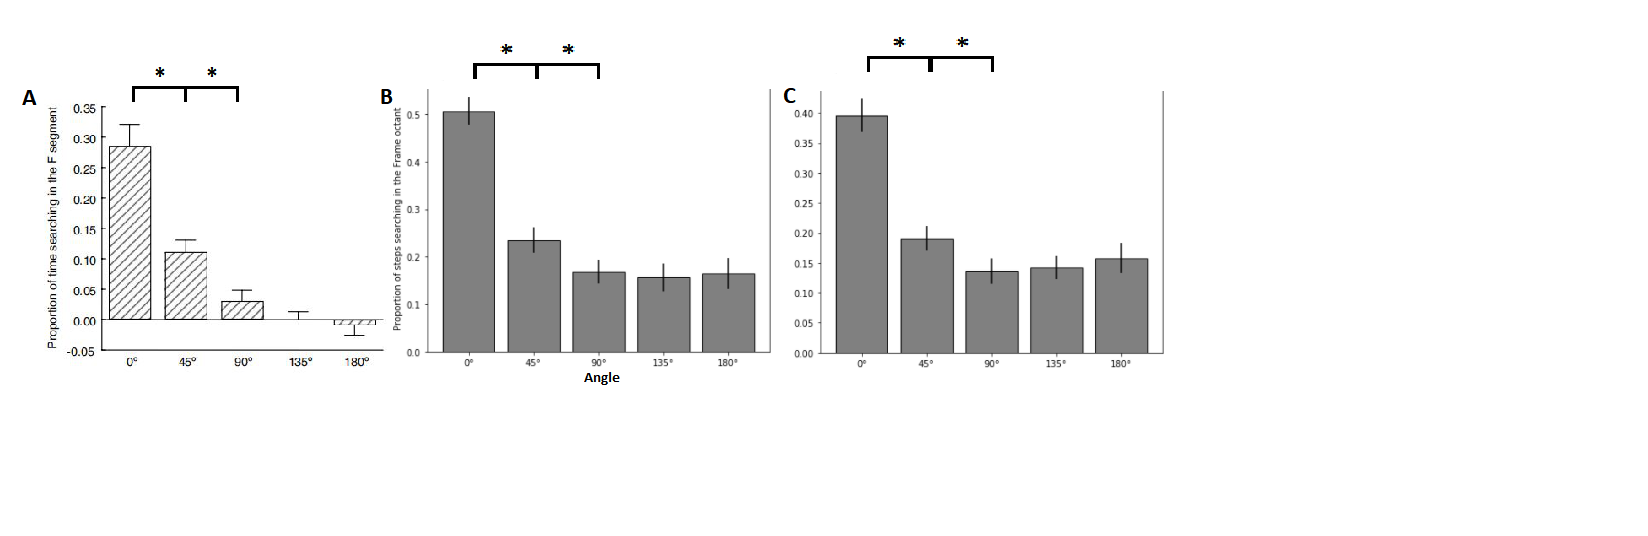
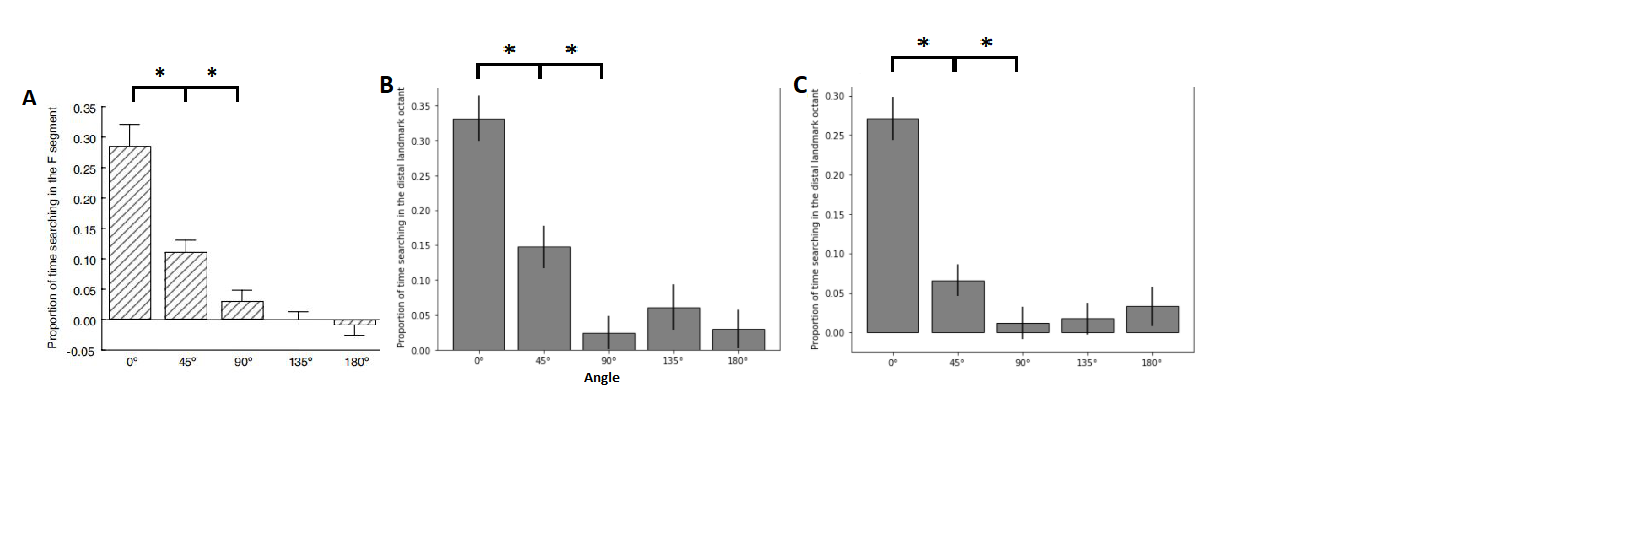
test

diff --git a/sources/rodrigo_protocol.py b/sources/rodrigo_protocol.py
@@ -583,10 +583,10 @@ def plot_rodrigo_extinction(results_folder, n_agents, show_plots, save_plots):
     axs[0].plot(aspect="auto")
 
 
-    axs[1].bar(["0°", "45°", "90°", "135°", "180°"], [dist0, dist45, dist90, dist135, dist180], yerr=[ydist0, ydist45, ydist90, ydist135, ydist180], color='gray', edgecolor="black")
+    axs[1].bar(["1", "2", "3", "4", "5"], [dist0, dist45, dist90, dist135, dist180], yerr=[ydist0, ydist45, ydist90, ydist135, ydist180], color='gray', edgecolor="black")
     axs[1].set_title("Our results")
     axs[1].set_ylabel("Proportion of time searching in the distal landmark octant")
-    axs[1].set_xlabel("Tests")
+    axs[1].set_xlabel("Extinction trial")
 
 
     if show_plots:

diff --git a/sources/agents/landmark_learning_agent.py b/sources/agents/landmark_learning_agent.py
@@ -43,6 +43,11 @@ class LandmarkLearningAgent(Agent, AssociativeAgent, FirstOrderAgent):
         self.weights = np.zeros((self.features.n_cells*2, self.env.nr_actions)) # weights associating each sensory neurons to action neurons
         self.last_observation = np.zeros(self.features.n_cells*2) # last visual perception
 
+        print("lr: ", self.learning_rate)
+        print("gamma: ", gamma)
+        print("beta: ", inv_temp)
+        print("eta: ", eta)
+
     def setup(self): # not used yet
         pass
 
